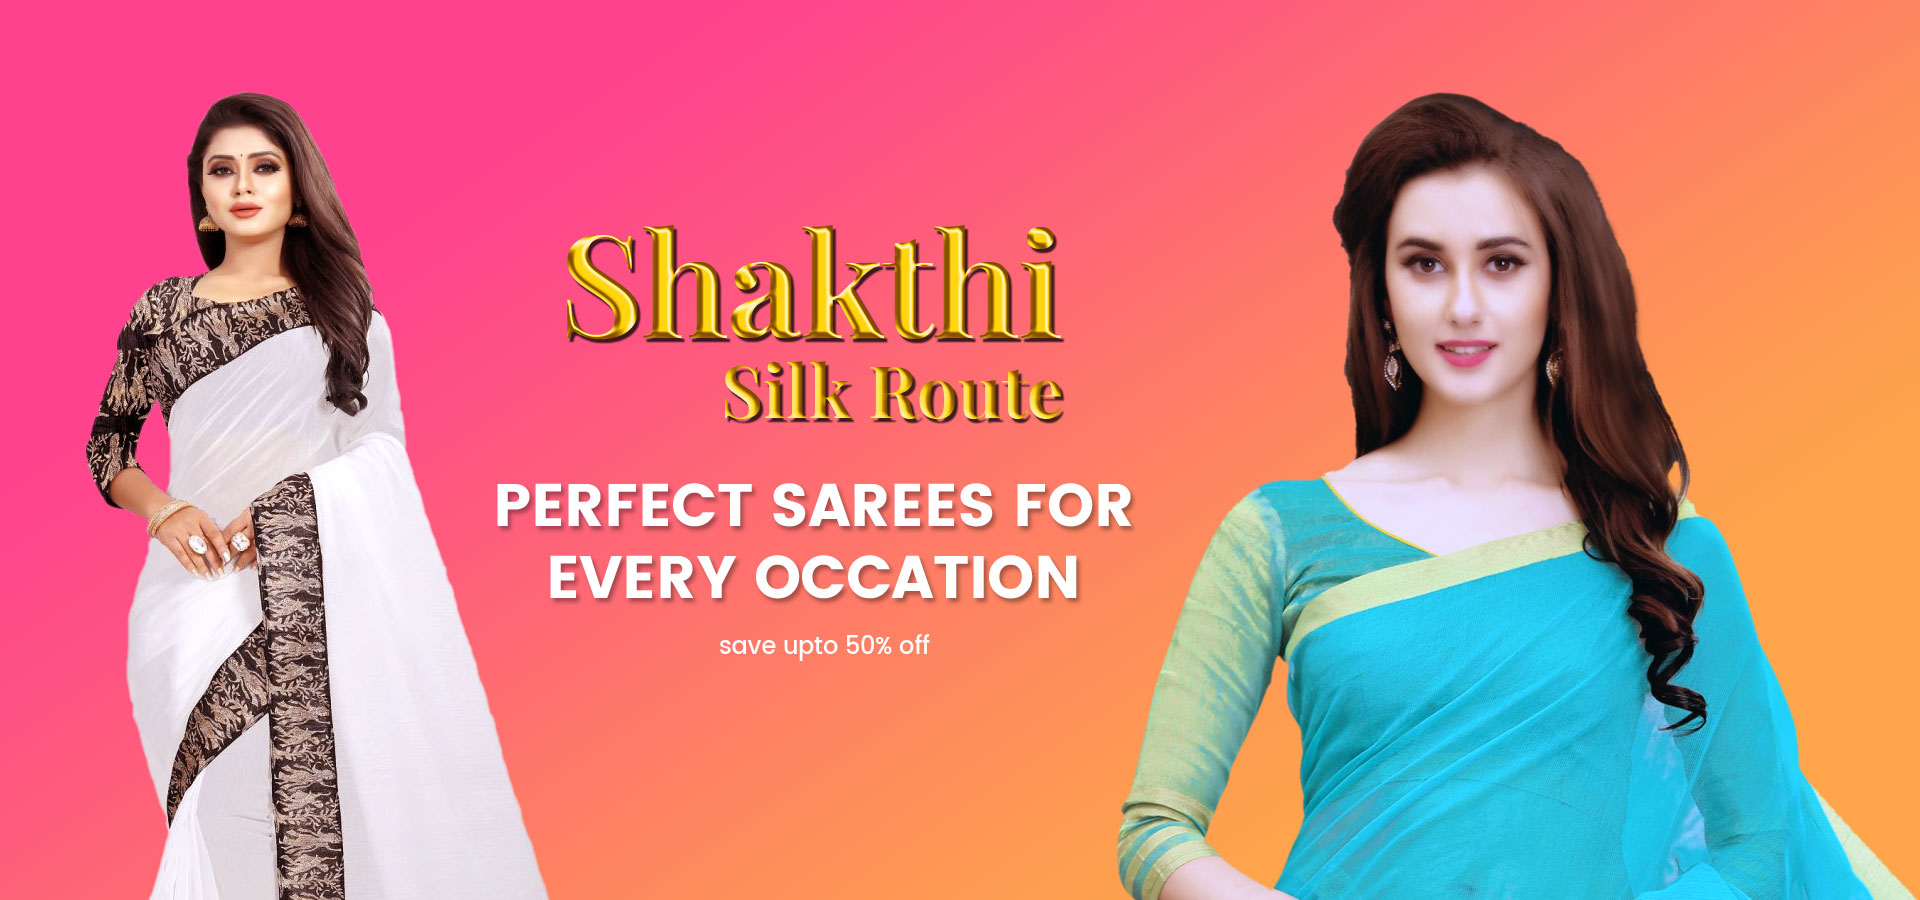
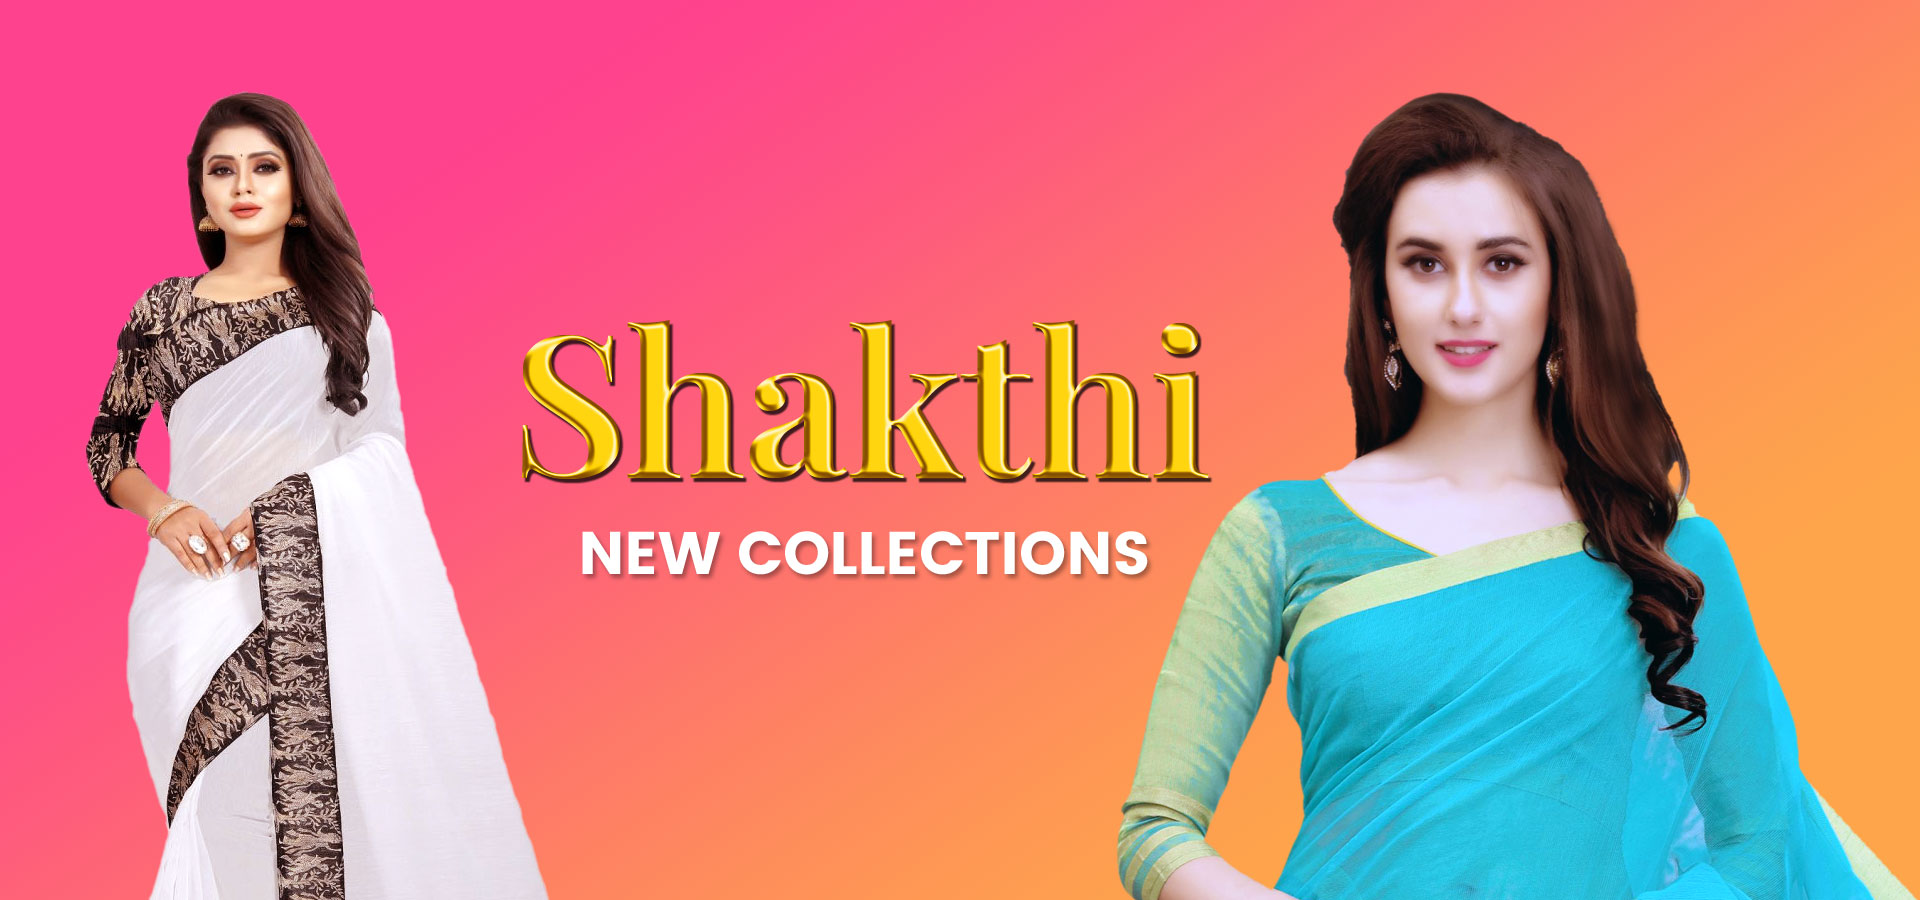
updated the slider

Changed region(s): [[0.25, 0.2489, 0.625, 0.7467]]

diff --git a/index.html b/index.html
@@ -207,6 +207,22 @@
         	<div class="home-slideshow">
             	<div class="slide">
                 	<div class="blur-up lazyload bg-size">
+                        <img class="blur-up lazyload bg-img" src="assets/images/slideshow-banners/slide-1.jpg" alt="Shop Our New Collection" title="Shop Our New Collection" />
+                        <!--<div class="slideshow__text-wrap slideshow__overlay classic bottom">
+                            <div class="slideshow__text-content bottom">
+                                <div class="wrap-caption center">
+                                        <h2 class="h1 mega-title slideshow__title">New Collections</h2>
+                                        <span class="mega-subtitle slideshow__subtitle">From High to low, classic or modern. <br>We have you covered</span>
+                                        <span class="btn">Shop now</span>
+                                    </div>
+                            </div>
+                        </div>
+                        -->
+                    </div>
+                </div>
+                
+                <div class="slide">
+                	<div class="blur-up lazyload bg-size">
                         <img class="blur-up lazyload bg-img" src="assets/images/slideshow-banners/slide-new.jpg" alt="Shop Our New Collection" title="Shop Our New Collection" />
                         <!--<div class="slideshow__text-wrap slideshow__overlay classic bottom">
                             <div class="slideshow__text-content bottom">

diff --git a/assets/css/style.css b/assets/css/style.css
@@ -59,6 +59,7 @@ Table of Content:
 @import url('http://fonts.googleapis.com/css?family=Roboto+Slab:300,400,700&amp;display=swap');
 @import url('http://fonts.googleapis.com/css?family=Montserrat:400,500,600,700,800&amp;display=swap');
 @import url('https://fonts.googleapis.com/css2?family=Playfair+Display&family=Playfair+Display+SC&display=swap');
+@import url('https://fonts.googleapis.com/css2?family=Sofia&display=swap');
 @import url('https://fonts.googleapis.com/css2?family=Norican&display=swap');
 
 
@@ -212,7 +213,7 @@ input:-ms-input-placeholder, textarea:-ms-input-placeholder { opacity:1; -ms-fil
 .top-header { color:#fff; padding-top:15px; padding-bottom:10px; background:#e10b24; height:50px; vertical-align:baseline; }
 .top-header a { color:#fff; }
 .top-header p, .top-header a, .top-header select, .top-header .fa, .top-header span.selected-currency, .top-header .language-dd { 
-	color:#f4e761; 
+	color:#f4e761;
 	font-size:12px;
 	font-size-adjust: 0.57;
 	letter-spacing:0.6px;
